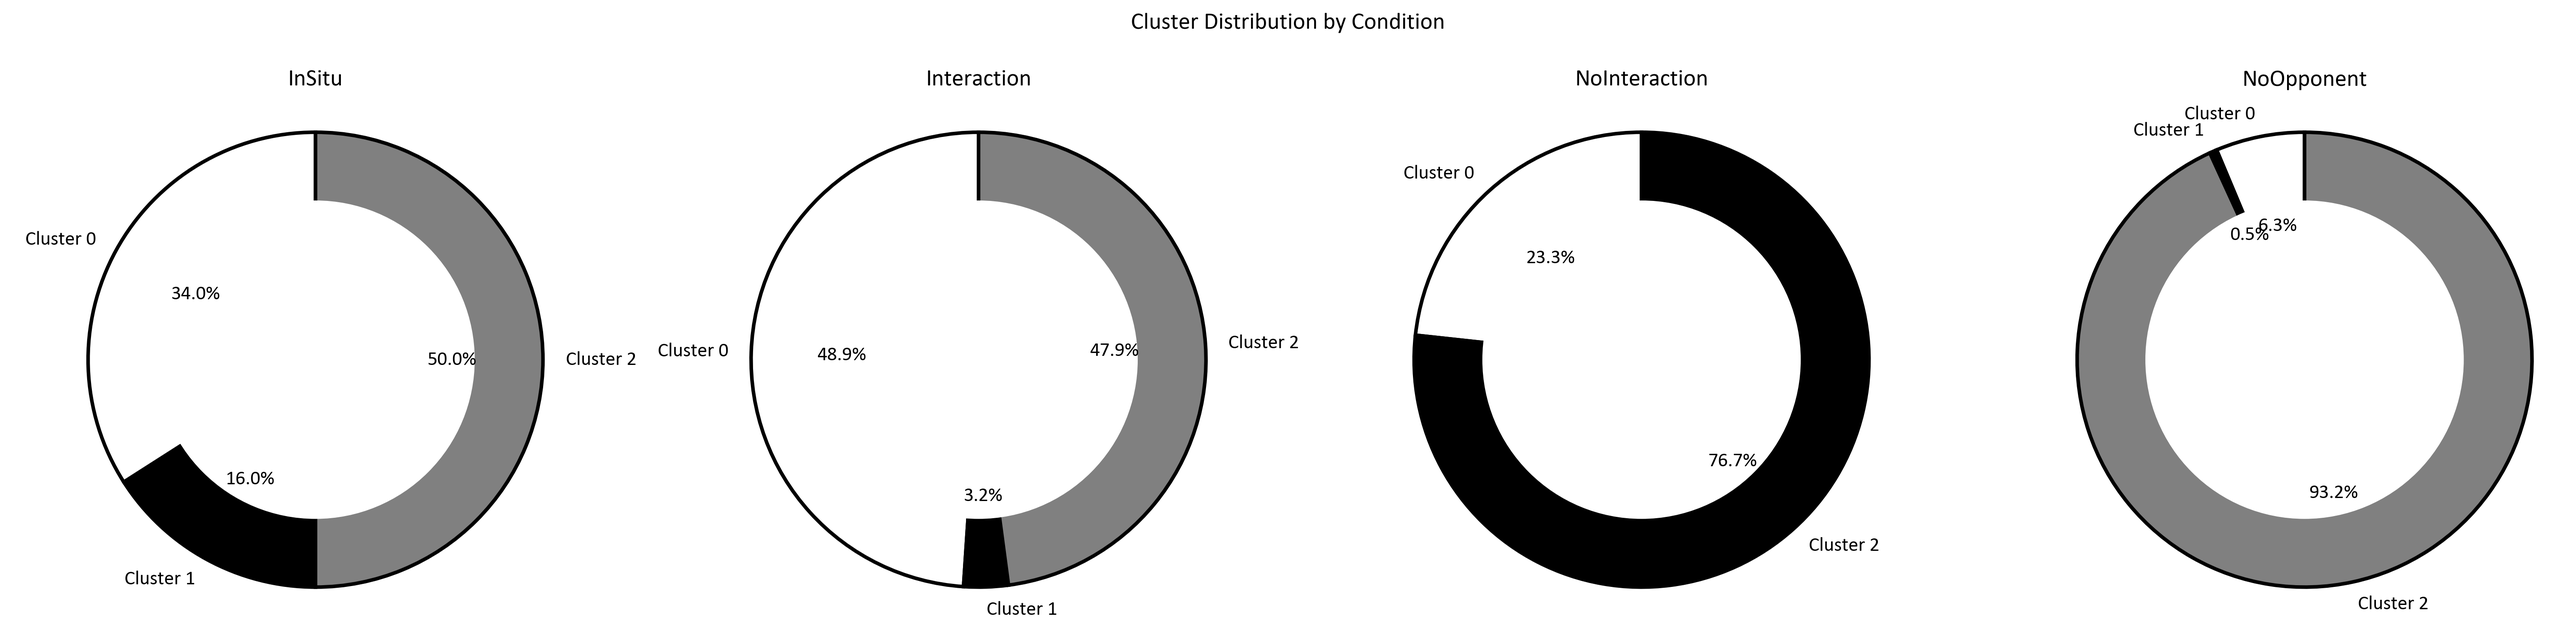
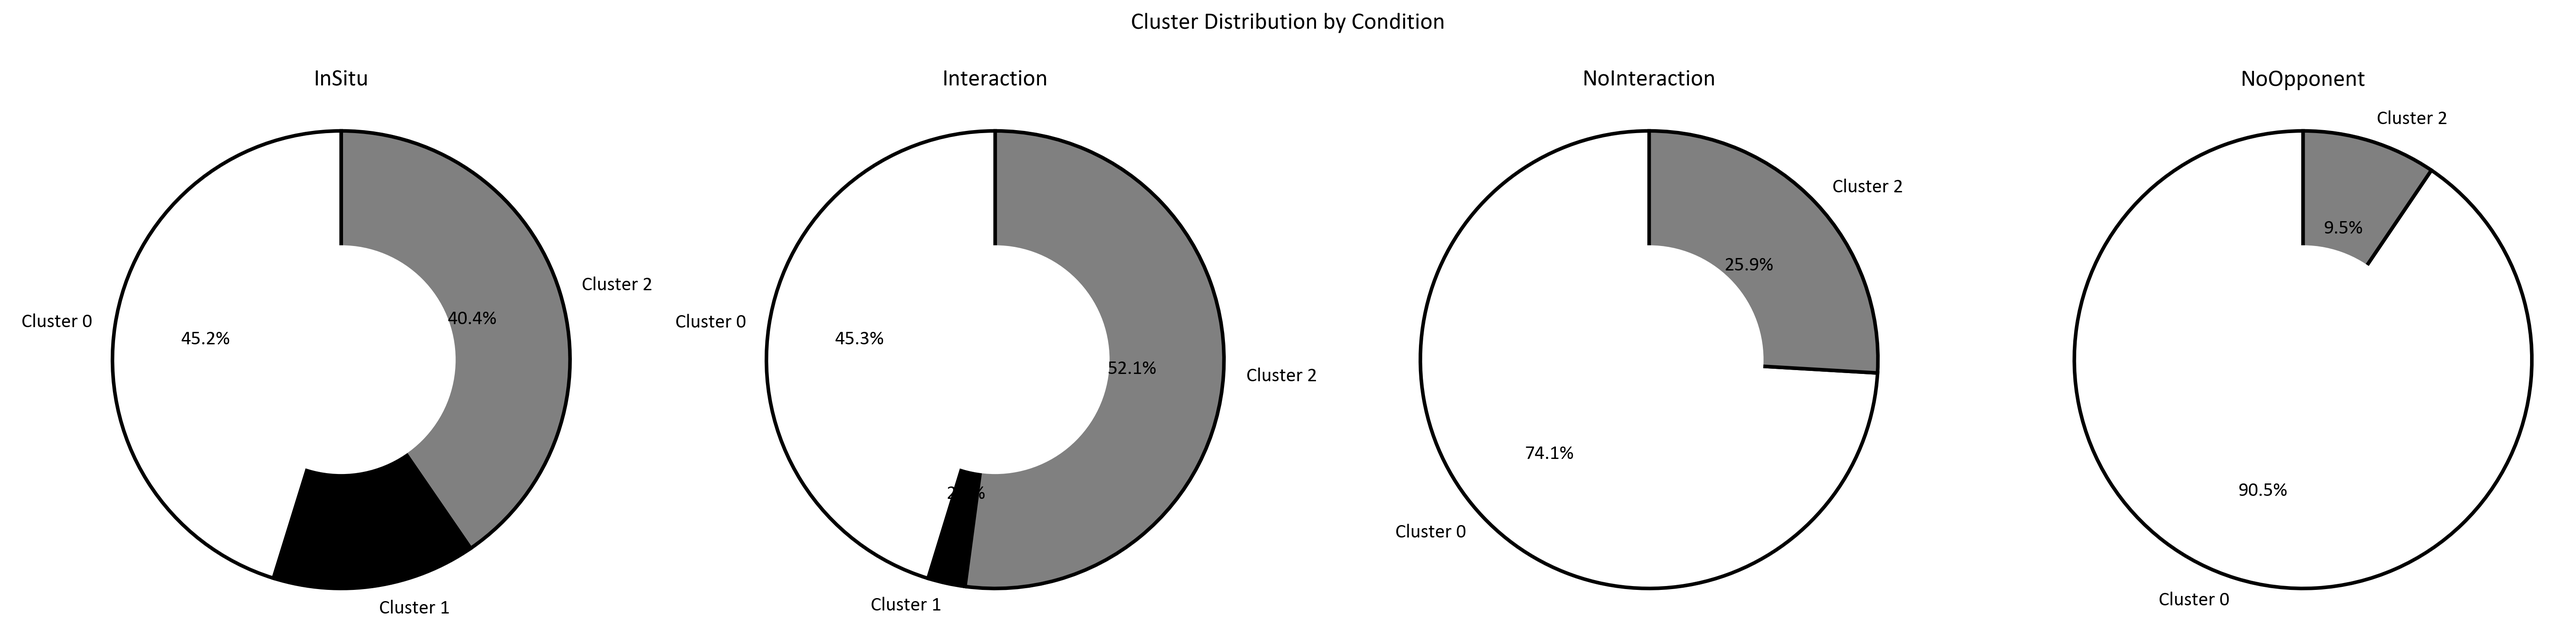
stable results with 3 features

diff --git a/Python.Analysis/src/cluster_analysis.py b/Python.Analysis/src/cluster_analysis.py
@@ -6,23 +6,46 @@ from matplotlib.patches import Circle
 from sklearn.cluster import KMeans
 from src.domain import Persistence, Trial, Condition
 import pandas as pd  # Import pandas for tabular data handling
+from collections import Counter
 
 def perform_cluster_analysis(trials: List[Trial], n_clusters: int) -> None:
+    # Filter out trials with NaN values in the features
+    valid_trials = [trial for trial in trials if not np.isnan(trial.time_between_last_change_of_direction_and_pass())]
+    
+    # If no valid trials, return early
+    if not valid_trials:
+        print("No valid trials available for clustering.")
+        return
+
     trial_features = np.array([
         [
             trial.distance_between_last_touch_and_pass(),
             trial.time_between_last_change_of_direction_and_pass(),
             trial.number_lateral_changes_of_direction()
         ]
-        for trial in trials
+        for trial in valid_trials
     ])
     
+    # Impute NaN values for time_between_last_change_of_direction_and_pass
+    time_between_changes = trial_features[:, 1]  # Extract the second feature
+    mean_time_between_changes = np.nanmean(time_between_changes)  # Calculate the mean, ignoring NaNs
+    time_between_changes[np.isnan(time_between_changes)] = mean_time_between_changes  # Impute NaN values
+
+    # Update trial_features with the imputed values
+    trial_features[:, 1] = time_between_changes
+
+    # Impute NaN values for other features if necessary
+    for i in range(trial_features.shape[1]):
+        mean_value = np.nanmean(trial_features[:, i])
+        trial_features[np.isnan(trial_features[:, i]), i] = mean_value  # Impute NaN values
+
+    # Perform KMeans clustering
     kmeans = KMeans(n_clusters=n_clusters)
     kmeans.fit(trial_features)
     labels = kmeans.labels_
 
     # Store the cluster label in the trial object
-    for trial, label in zip(trials, labels):
+    for trial, label in zip(valid_trials, labels):
         trial.cluster_label = label
 
     # Prepare to collect averages for each condition
@@ -33,7 +56,7 @@ def perform_cluster_analysis(trials: List[Trial], n_clusters: int) -> None:
     print("\nPercentage of trials in each cluster by condition:")
     
     for condition in conditions:
-        condition_trials = [trial for trial in trials if trial.condition == condition]
+        condition_trials = [trial for trial in valid_trials if trial.condition == condition]
         condition_labels = [trial.cluster_label for trial in condition_trials]
         
         print(f"\nCondition: {condition.value}")
@@ -80,7 +103,7 @@ def perform_cluster_analysis(trials: List[Trial], n_clusters: int) -> None:
     cluster_averages = {i: [] for i in range(n_clusters)}
     
     for i in range(n_clusters):
-        cluster_trials = [trial_features[j] for j in range(len(trials)) if labels[j] == i]
+        cluster_trials = [trial_features[j] for j in range(len(valid_trials)) if labels[j] == i]
         if cluster_trials:
             cluster_averages[i] = np.mean(cluster_trials, axis=0)
         else:
@@ -104,6 +127,19 @@ def plot_elbow_method(trials: List[Trial], max_clusters: int, persistence: Persi
         for trial in trials
     ])
     
+    # Impute NaN values for time_between_last_change_of_direction_and_pass
+    time_between_changes = trial_features[:, 1]  # Extract the second feature
+    mean_time_between_changes = np.nanmean(time_between_changes)  # Calculate the mean, ignoring NaNs
+    time_between_changes[np.isnan(time_between_changes)] = mean_time_between_changes  # Impute NaN values
+
+    # Update trial_features with the imputed values
+    trial_features[:, 1] = time_between_changes
+
+    # Impute NaN values for other features if necessary
+    for i in range(trial_features.shape[1]):
+        mean_value = np.nanmean(trial_features[:, i])
+        trial_features[np.isnan(trial_features[:, i]), i] = mean_value  # Impute NaN values
+
     for i in range(1, max_clusters + 1):
         kmeans = KMeans(n_clusters=i)
         kmeans.fit(trial_features)
@@ -118,43 +154,44 @@ def plot_elbow_method(trials: List[Trial], max_clusters: int, persistence: Persi
     plt.grid()
 
     # Save the plot using the persistence object
-    persistence.save_figure(plt,Path("elbow_method_plot.png"))  # Adjust the filename as needed
+    persistence.save_figure(plt, Path("elbow_method_plot.png"))  # Adjust the filename as needed
     plt.savefig("elbow_method_plot.png")  # Save the plot locally
     plt.close()  # Close the plot to free memory 
 
-def plot_cluster_distribution(trials: List[Trial], persistence: Persistence) -> None:
-    conditions = [Condition.IN_SITU, Condition.INTERACTION, Condition.NO_INTERACTION, Condition.NO_OPPONENT]
-    cluster_distributions = {condition: [] for condition in conditions}
 
-    # Collect cluster labels for each condition
-    for trial in trials:
-        cluster_distributions[trial.condition].append(trial.cluster_label)
 
-    # Create a figure with 4 subplots for each condition
-    fig, axes = plt.subplots(1, 4, figsize=(20, 5))
-    fig.suptitle('Cluster Distribution by Condition')
+def plot_cluster_distribution(trials, persistence):
+	conditions = [Condition.IN_SITU, Condition.INTERACTION, Condition.NO_INTERACTION, Condition.NO_OPPONENT]
+	fig, axes = plt.subplots(1, 4, figsize=(20, 5))
+	fig.suptitle('Cluster Distribution by Condition')
+	colors = ['#FFFFFF', '#000000', '#808080']
 
-    # Define a color cycler with white, black, and grey
-    colors = ['#FFFFFF', '#000000', '#808080']  # White, Black, Grey
+	for ax, condition in zip(axes, conditions):
+		labels = [trial.cluster_label for trial in trials if trial.condition == condition and trial.cluster_label is not None]
+		label_set = set(labels)
+		counts = [labels.count(label) for label in label_set]
+		total = sum(counts)
+		sizes = [count / total * 100 for count in counts]
+		cluster_colors = [colors[label % len(colors)] for label in label_set]
 
-    for ax, condition in zip(axes, conditions):
-        labels, counts = np.unique(cluster_distributions[condition], return_counts=True)
-        sizes = counts / counts.sum() * 100  # Convert counts to percentages
-        
-        wedges, texts, autotexts = ax.pie(sizes, labels=[f'Cluster {label}' for label in labels], 
-                                            autopct='%1.1f%%', startangle=90, colors=colors,
-                                            wedgeprops=dict(linewidth=2, edgecolor='black'))  # Add outline properties
-        
-        # Add a circle outline around the pie chart
-        centre_circle = Circle((0, 0), 0.70, fc='white')  # Create a white circle in the center
-        ax.add_artist(centre_circle)  # Add the circle to the pie chart
-        ax.axis('equal')  # Equal aspect ratio ensures that pie is drawn as a circle
-        ax.set_title(condition.value)
+		ax.pie(
+			sizes,
+			labels=[f'Cluster {label}' for label in label_set],
+			autopct='%1.1f%%',
+			startangle=90,
+			colors=cluster_colors,
+			wedgeprops=dict(linewidth=2, edgecolor='black')
+		)
 
-    plt.tight_layout()
-    plt.subplots_adjust(top=0.85)  # Adjust the top to make room for the title
+		centre_circle = plt.Circle((0, 0), 0.50, fc='white')
+		ax.add_artist(centre_circle)
+		ax.axis('equal')
+		ax.set_title(condition.value)
 
-    # Save the plot using the persistence object
-    persistence.save_figure(plt, Path("cluster_distribution_plot.png"))  # Adjust the filename as needed
-    plt.savefig("cluster_distribution_plot.png")  # Save the plot locally
-    plt.close()  # Close the plot to free memory 
+	plt.tight_layout()
+	plt.subplots_adjust(top=0.85)
+
+	persistence.save_figure(plt, Path("cluster_distribution_plot.png"))
+	plt.savefig("cluster_distribution_plot.png")
+	plt.close()
+

diff --git a/Python.Analysis/src/domain.py b/Python.Analysis/src/domain.py
@@ -117,6 +117,7 @@ class Trial:
     pass_event: Pass
     dominant_foot_side: Footedness
     has_missing_data: bool = False
+    cluster_label: int = None
 
     def distance_between_last_touch_and_pass(self):
         last_touch = next((action for action in reversed(self.actions) if isinstance(action, Touch)), None)
@@ -184,16 +185,29 @@ class Trial:
         return np.sum(derivative[1:] * derivative[:-1] < 0)
 
     def time_between_last_change_of_direction_and_pass(self) -> float:
+        # Get the Z positions of the head
+        z_positions = np.array([pos.z for pos in self.head_positions])
+        
+        # Apply Butterworth filter to the Z positions
+        filtered_z = self.butterworth_filter(z_positions)
+
+        # Compute the derivative of the filtered Z positions
+        derivative = np.diff(filtered_z)
+
         last_change_index = None
-        for i in range(len(self.actions) - 1, -1, -1):
-            if isinstance(self.actions[i], Touch):  # Assuming Touch indicates a change of direction
-                last_change_index = i
+
+        # Iterate through the derivative to find the last significant change
+        for i in range(len(derivative) - 1, 0, -1):
+            if derivative[i] * derivative[i - 1] < 0:  # Check for sign change
+                last_change_index = i + 1  # +1 because of the diff operation
                 break
         
         if last_change_index is not None and self.pass_event.time_index > last_change_index:
             time_difference = self.timestamps[self.pass_event.time_index] - self.timestamps[last_change_index]
             return time_difference
-        return float('nan')  # Return NaN if no valid change of direction is found
+        
+        # If no valid change of direction is found, return NaN
+        return self.duration() # Return NaN if no valid change of direction is found
 
 
 @dataclass
